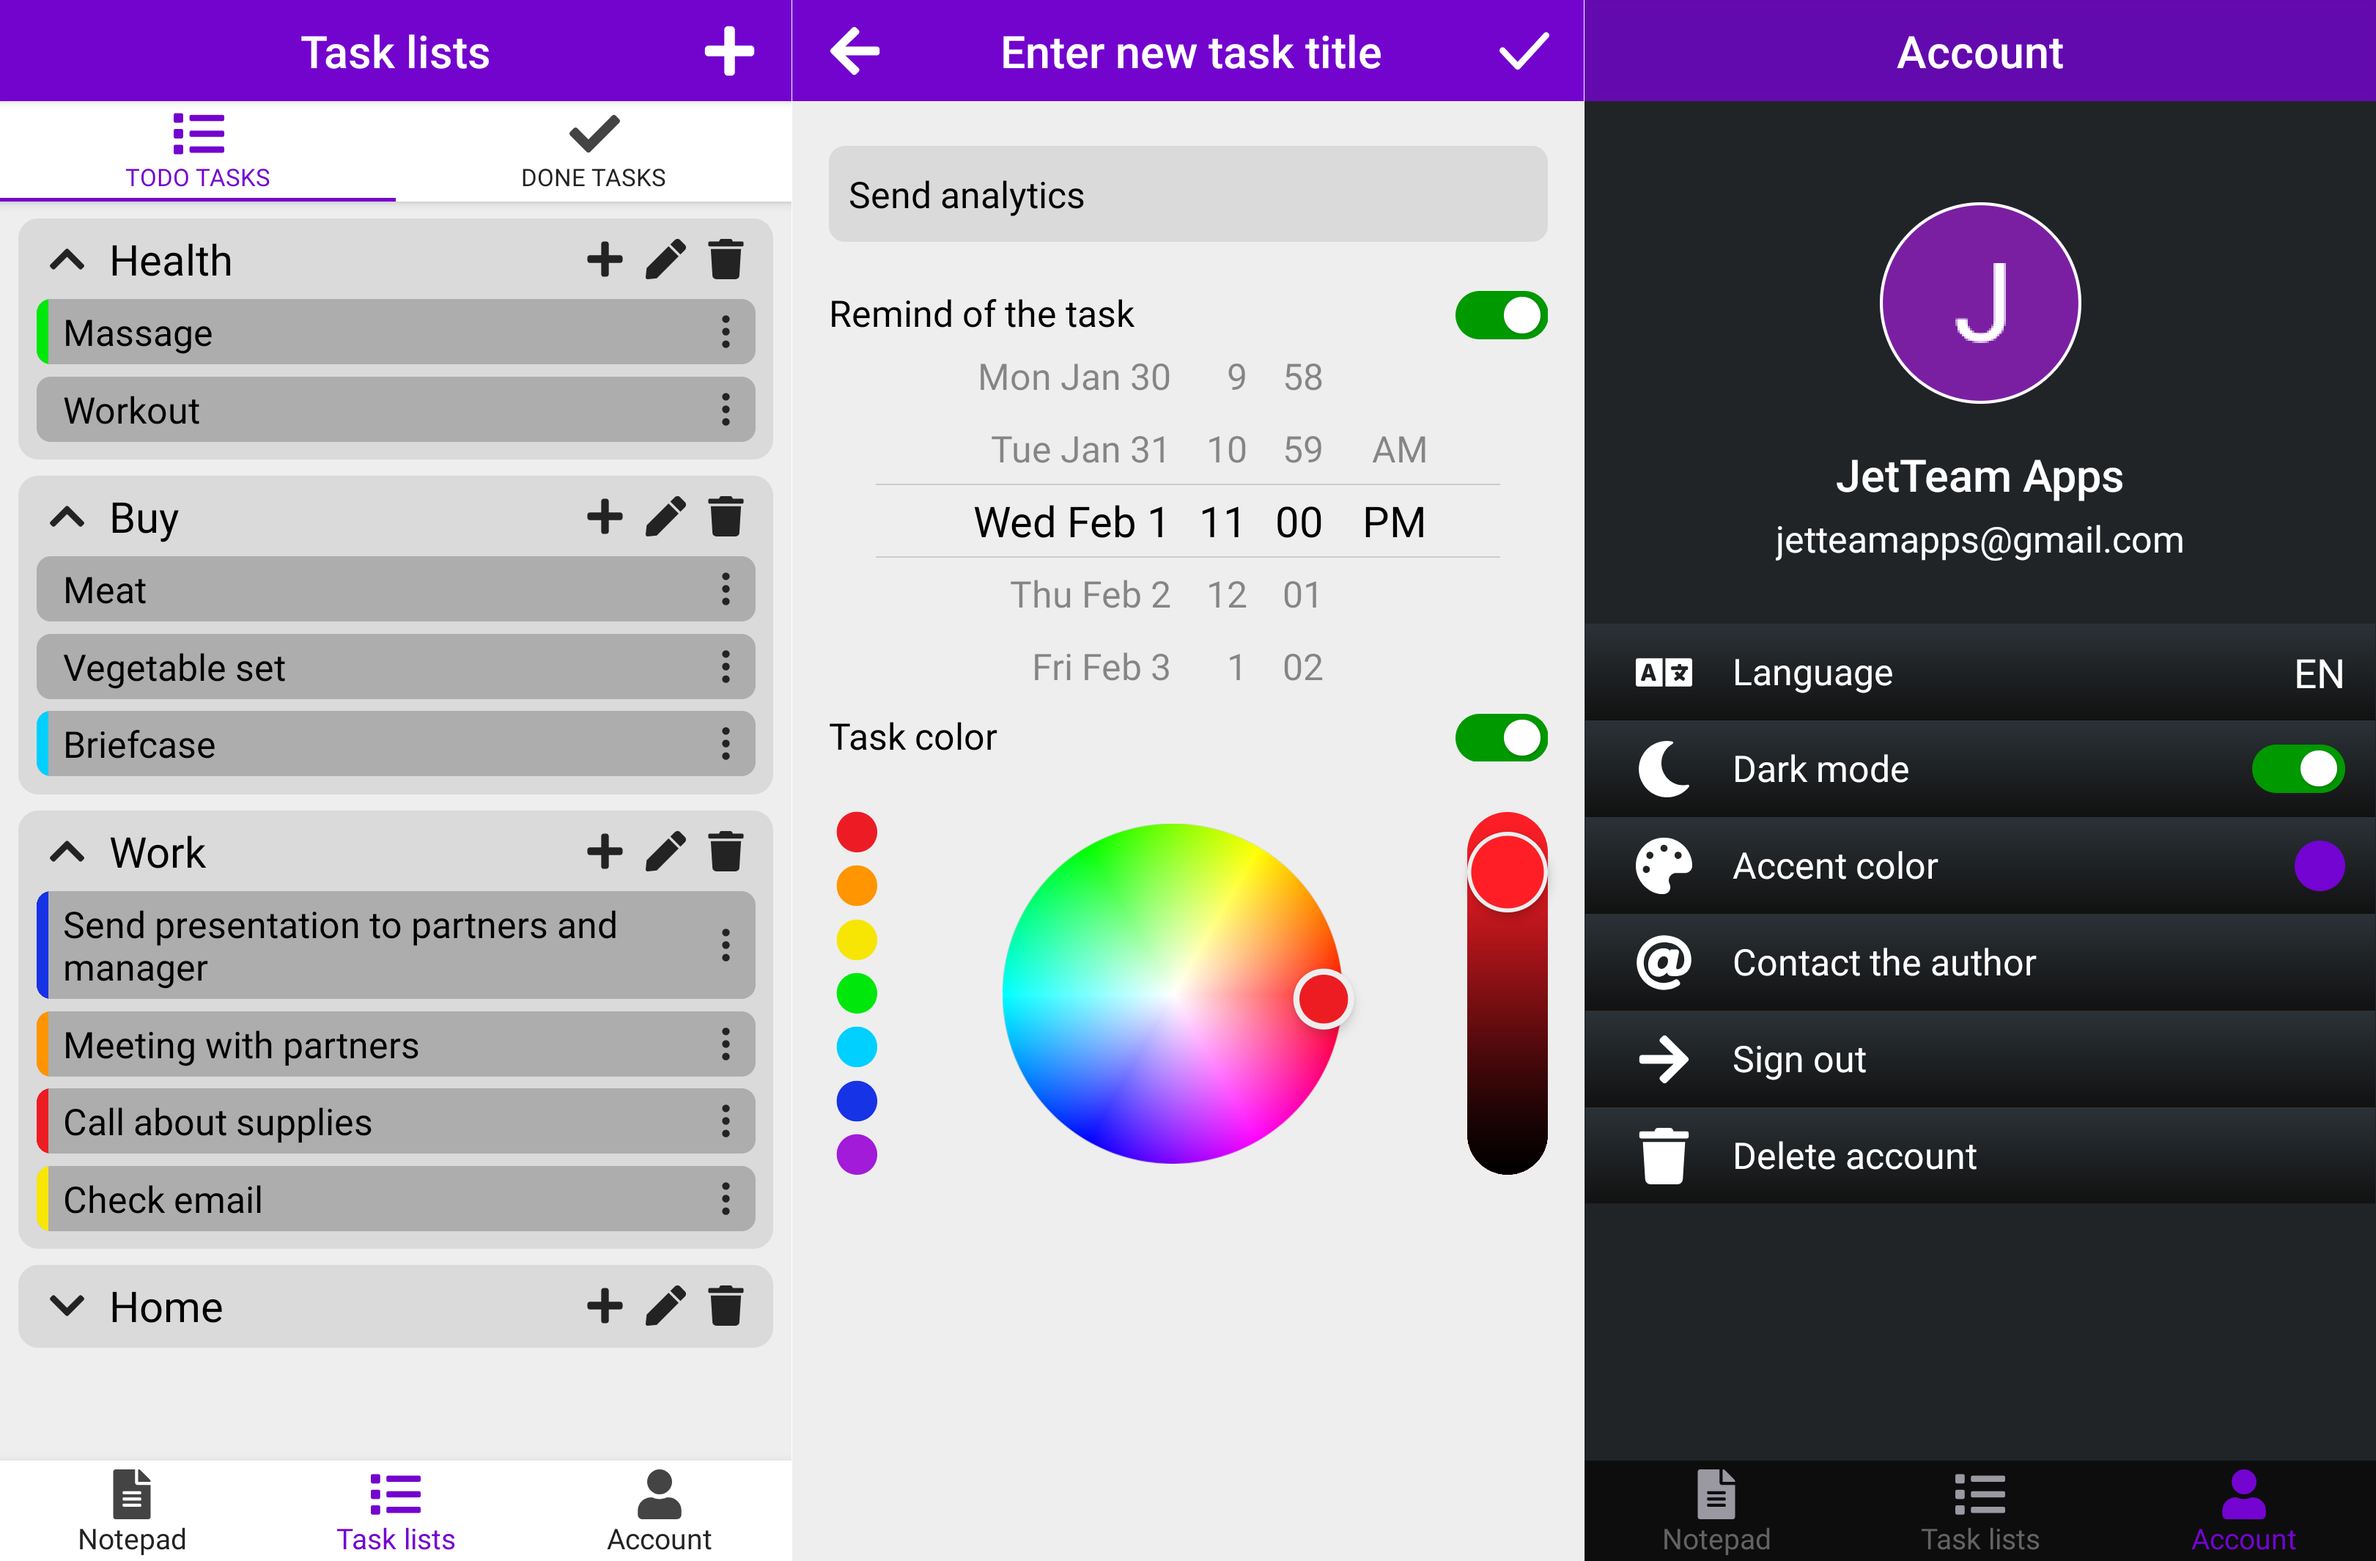
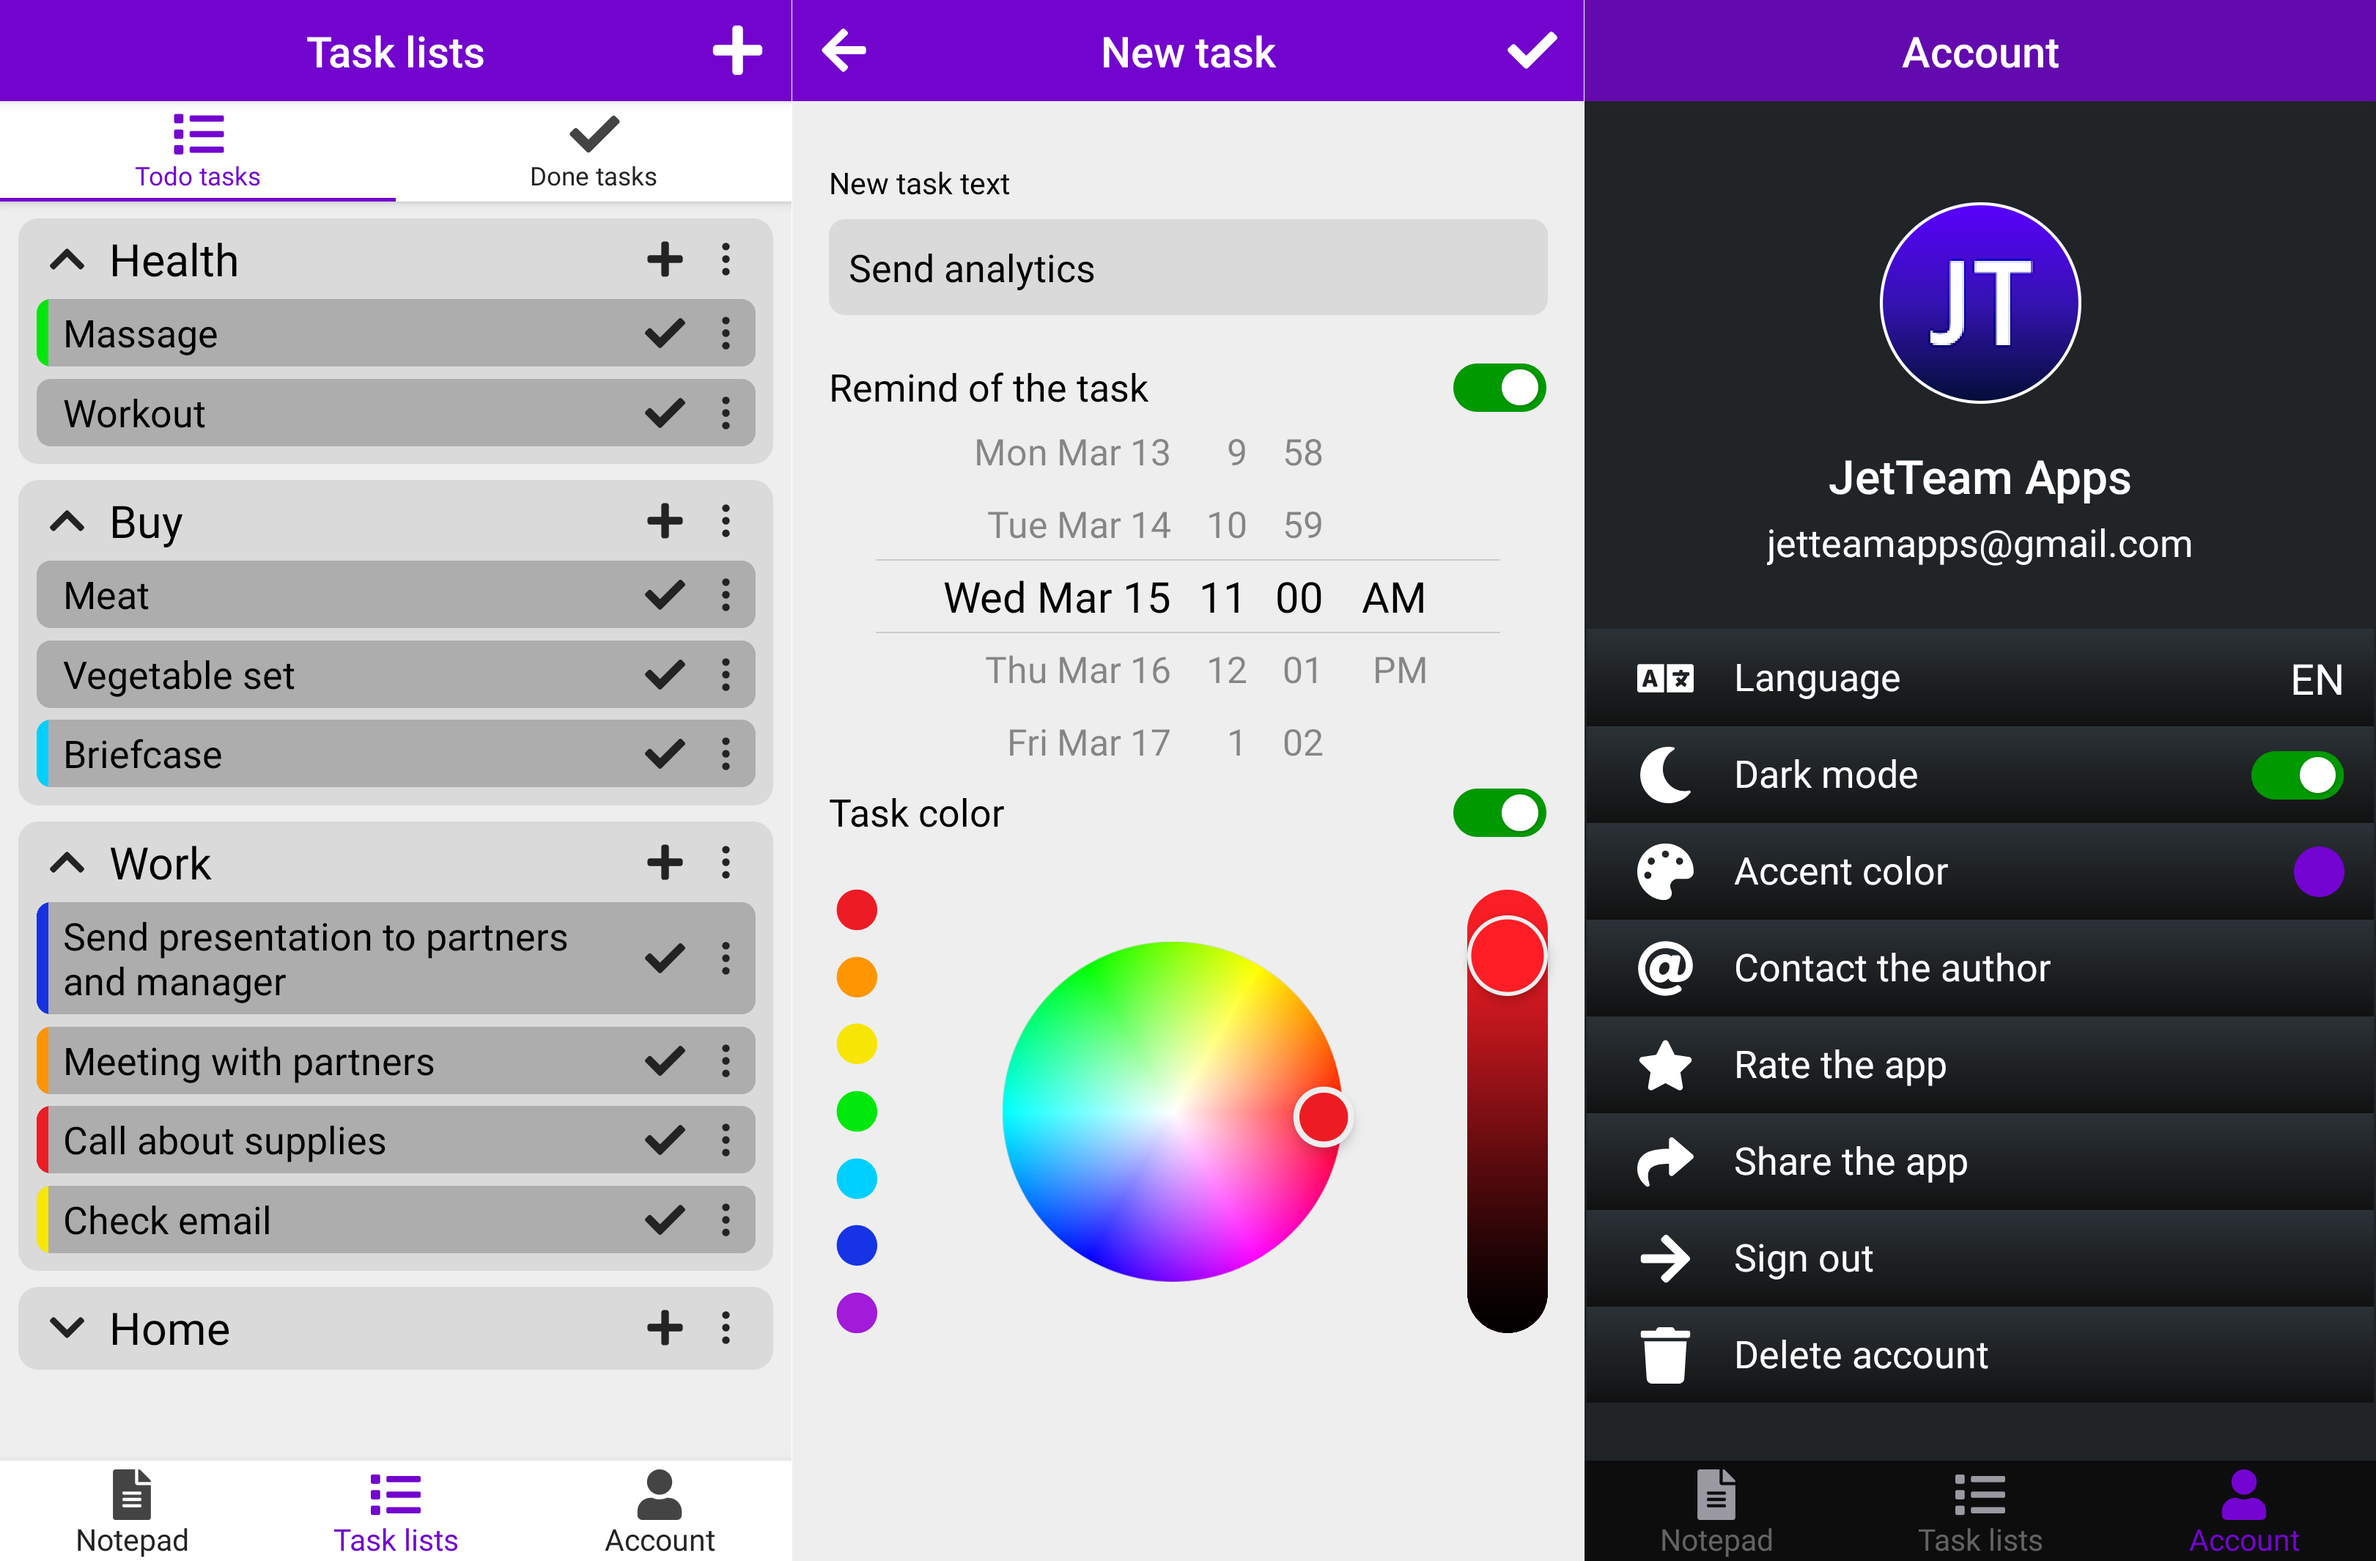
update readme, update preview, update app version

diff --git a/README.md b/README.md
@@ -5,7 +5,7 @@ Mobile task management application for Android and iOS.
 
 Stack: JavaScript, TypeScript, React Native, Redux, Redux-Saga, Firebase, i18next, Font Awesome, ESLint, Prettier.
 
-Implemented: adding task or task list, removing task or task list, renaming task or task list, collapsing and uncollapsing task lists, marking the completed task, marking task with any color, screens for todo tasks and for done tasks, notepad screen, receiving tasks notification at a certain date and time, sign in with Google, user data storage and synchronizing with cloud database, translations into 15 languages, dark theme button, app accent color picker button, contact the author button, delete account button, change app language button, internet connection checking, splash screen.
+Implemented: adding task or task list, removing task or task list, renaming task or task list, collapsing and uncollapsing task lists, marking the completed task, marking the uncompleted task, snack bar, marking task with any color, receiving tasks notification at a certain date and time, screens for todo tasks and for done tasks, notepad screen, sign in with Google and Facebook, user data storage and synchronizing with cloud database, translations into 15 languages, change app language button, dark theme button, app accent color picker button, contact the author button, rate app button, share app button, delete account button, internet connection checking, splash screen.
 
 ![ToDo List preview](./preview.png)
 
